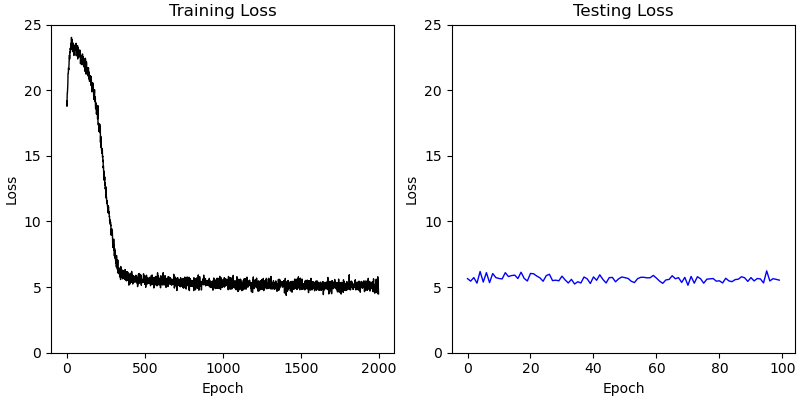
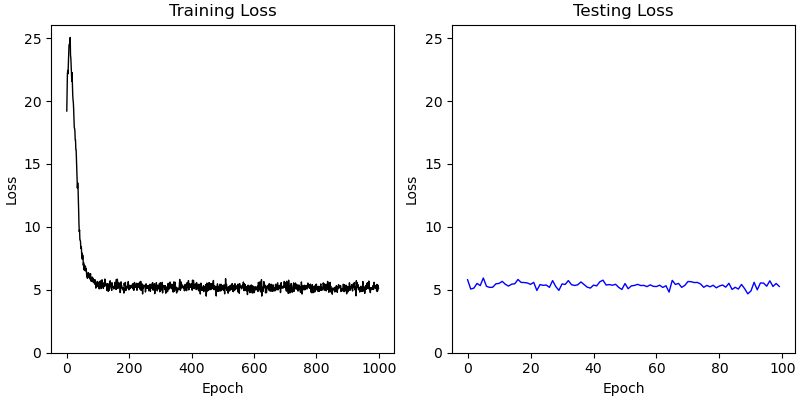
Updated demonstration code and results

diff --git a/experiments/pointerDemonstration.py b/experiments/pointerDemonstration.py
@@ -47,7 +47,7 @@ def handleArguments():
     parser.add_argument('-mn','--min-seq-length', type=int, default=4, help='the minimum tokens per sequence')
     parser.add_argument('-mx','--max-seq-length', type=int, default=12, help='the maximum tokens per sequence')
     parser.add_argument('-bs','--batch-size',type=int, default=512, help='number of sequences per batch')
-    parser.add_argument('-ne','--train-epochs',type=int, default=2000, help='the number of training epochs')
+    parser.add_argument('-ne','--train-epochs',type=int, default=1000, help='the number of training epochs')
     parser.add_argument('-te','--test-epochs',type=int, default=100, help='the number of testing epochs')
 
     parser.add_argument('--embedding_dim', type=int, default=48, help='the dimensions of the embedding')
@@ -109,7 +109,7 @@ def trainTestModel():
     net.train()
 
     # Create an optimizer, Adam with weight decay is pretty good
-    optimizer = torch.optim.Adam(net.parameters(), lr=1e-4, weight_decay=1e-6)
+    optimizer = torch.optim.Adam(net.parameters(), lr=1e-3, weight_decay=1e-5)
     
     # Train network
     print("Training network...")
@@ -213,24 +213,6 @@ def trainTestModel():
 
 
 def plotResults(results, args):
-    # Start by finding loss spikes
-    epochs_before = 7
-    epochs_after = 20
-    pks = sp.signal.find_peaks(results['trainLoss'], height=1.5, threshold=0.2, distance=100)[0]
-    pks = [pk for pk in pks if (pk-epochs_before)>0 and (pk+epochs_after)<len(results['trainLoss'])]
-    num_pks = len(pks)
-    
-    # Get spike-triggered loss trajectory and position-dependent error
-    epochs_xval = range(-epochs_before, epochs_after)
-    total_epochs = epochs_before + epochs_after
-    c_loss = torch.full((num_pks, total_epochs), torch.nan)
-    c_pos_error = torch.full((num_pks, total_epochs, results['trainPositionError'].shape[1]), torch.nan) 
-    c_max_score = torch.full((num_pks, total_epochs, results['trainMaxScore'].shape[1]), torch.nan) 
-    for ii, pp in enumerate(pks):
-        c_loss[ii] = results['trainLoss'][pp-epochs_before:pp+epochs_after]
-        c_pos_error[ii] = results['trainPositionError'][pp-epochs_before:pp+epochs_after,:]
-        c_max_score[ii] = results['trainMaxScore'][pp-epochs_before:pp+epochs_after,:]
-    
     fig, ax = plt.subplots(1,2,figsize=(8,4), layout='constrained')
     ax[0].plot(range(args.train_epochs), results['trainLoss'], color='k', lw=1)
     ax[0].set_xlabel('Epoch')
@@ -255,13 +237,13 @@ def plotResults(results, args):
     ax[0].plot(range(args.train_epochs), results['trainDescending'], color='k', lw=1)
     ax[0].set_xlabel('Epoch')
     ax[0].set_ylabel('Fraction')
-    ax[0].set_ylim(0, 1)
+    ax[0].set_ylim(-0.05, 1.05)
     ax[0].set_title('Training Fraction Sorted')
 
     ax[1].plot(range(args.test_epochs), results['testDescending'], color='b', lw=1)
     ax[1].set_xlabel('Epoch')
     ax[1].set_ylabel('Fraction')
-    ax[1].set_ylim(0, 1)
+    ax[1].set_ylim(-0.05, 1.05)
     ax[1].set_title('Testing Fraction Sorted')
 
     if not(args.nosave):
@@ -269,20 +251,6 @@ def plotResults(results, args):
     
     plt.show()
 
-    
-def loadSaved():
-    prms = np.load(prmsPath / (getFileName()+'.npy'), allow_pickle=True).item()
-    assert prms.keys() <= vars(args).keys(), f"Saved parameters contain keys not found in ArgumentParser:  {set(prms.keys()).difference(vars(args).keys())}"
-    for ak in vars(args):
-        if ak=='justplot': continue
-        if ak=='nosave': continue
-        if ak=='printargs': continue
-        if ak in prms and prms[ak] != vars(args)[ak]:
-            print(f"Requested argument {ak}={vars(args)[ak]} differs from saved, which is: {ak}={prms[ak]}. Using saved...")
-            setattr(args,ak,prms[ak])    
-    results = np.load(resPath / (getFileName()+'.npy'), allow_pickle=True).item()
-
-    return results, args
 
 if __name__=='__main__':
     args = handleArguments()
